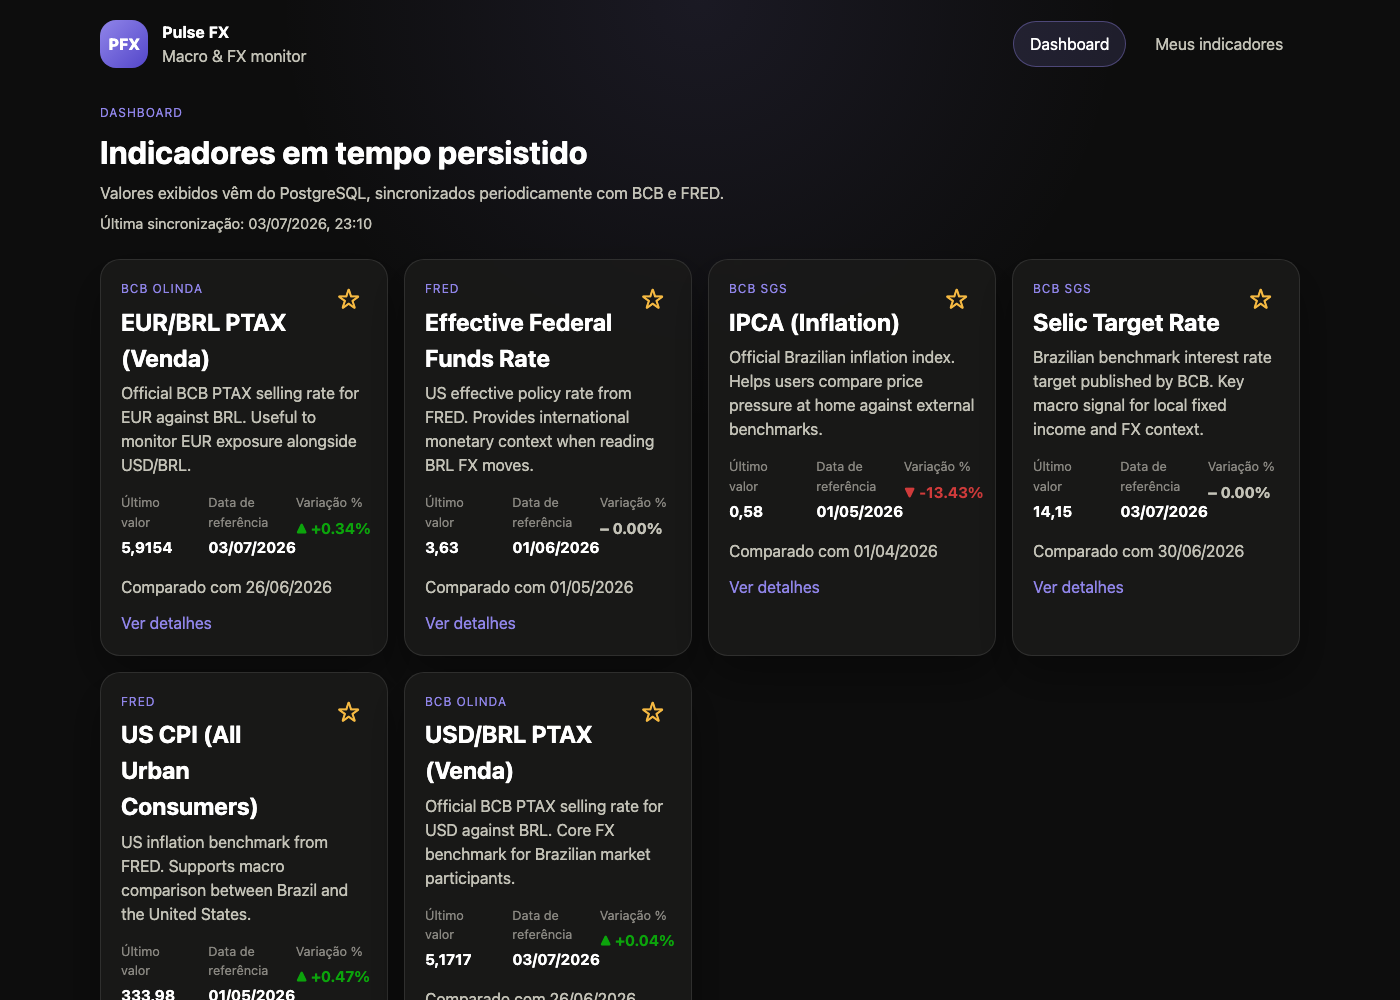
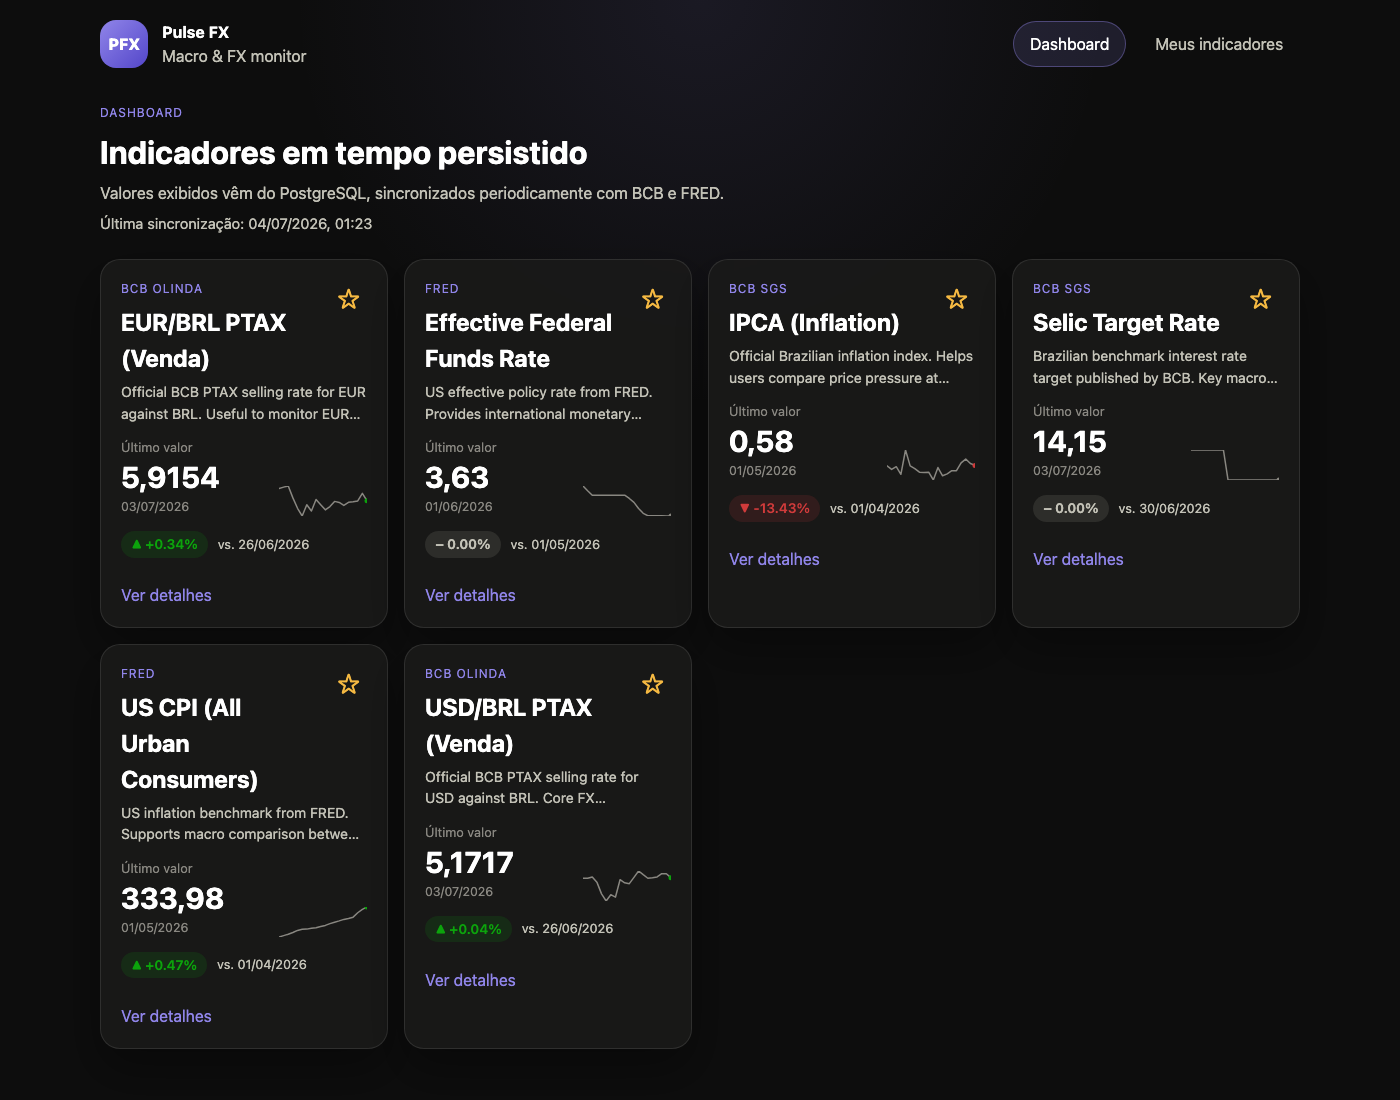
feat: redesign dashboard cards as stat tiles with a trend sparkline
Reference date, latest value and variation previously shared equal
visual weight in a 3-column grid, and the description ate most of the
card's vertical space despite not being a required field. Restructure
around the stat-tile pattern instead: a hero value with the reference
date as a secondary caption, a colored variation chip, and a compact
sparkline (muted trend line, direction-colored endpoint) so gain/loss
and recent movement are readable at a glance.

The sparkline needs a short recent-history sample per indicator, so
IndicatorSummaryDto gains a `sparkline: number[]` field sourced from
the same history array the use case already fetches for the variation
calculation — no extra query.

diff --git a/apps/web/src/styles/global.css b/apps/web/src/styles/global.css
@@ -24,6 +24,9 @@
   /* Financial status (reserved — never reused as brand/series color) */
   --status-good: #0ca30c;
   --status-critical: #d03b3b;
+  --status-good-soft: rgba(12, 163, 12, 0.14);
+  --status-critical-soft: rgba(208, 59, 59, 0.14);
+  --status-neutral-soft: rgba(195, 194, 183, 0.12);
 
   /* Favorite affordance (UI icon, not a data encoding) */
   --star: #f5b942;
@@ -102,10 +105,19 @@ a:focus-visible {
 
 .brand p,
 .page-subtitle,
-.card-description,
 .comparison-note {
   margin: 0;
   color: var(--ink-secondary);
+}
+
+.card-description {
+  margin: 0;
+  color: var(--ink-secondary);
+  font-size: 0.88rem;
+  display: -webkit-box;
+  -webkit-line-clamp: 2;
+  -webkit-box-orient: vertical;
+  overflow: hidden;
 }
 
 .main-nav {
@@ -150,7 +162,6 @@ a:focus-visible {
 
 .cards-grid,
 .favorites-list,
-.metric-grid,
 .detail-summary {
   display: grid;
   gap: 1rem;
@@ -177,11 +188,6 @@ a:focus-visible {
   gap: 1rem;
 }
 
-.metric-grid {
-  grid-template-columns: repeat(3, minmax(0, 1fr));
-  margin: 1rem 0;
-}
-
 .metric-label {
   display: block;
   font-size: 0.8rem;
@@ -200,10 +206,6 @@ a:focus-visible {
   font-size: 2rem;
 }
 
-.metric-grid .metric-value {
-  font-size: 0.95rem;
-}
-
 .variation-positive {
   color: var(--status-good);
 }
@@ -214,6 +216,75 @@ a:focus-visible {
 
 .variation-neutral {
   color: var(--ink-secondary);
+}
+
+.card-hero {
+  display: flex;
+  align-items: flex-end;
+  justify-content: space-between;
+  gap: 1rem;
+  margin: 0.9rem 0;
+}
+
+.hero-value-block {
+  display: flex;
+  flex-direction: column;
+  gap: 0.2rem;
+  min-width: 0;
+}
+
+.hero-value {
+  font-size: 1.85rem;
+  font-weight: 700;
+  line-height: 1.15;
+  color: var(--ink-primary);
+  white-space: nowrap;
+}
+
+.hero-date {
+  font-size: 0.78rem;
+  color: var(--ink-muted);
+}
+
+.sparkline {
+  flex-shrink: 0;
+}
+
+.variation-row {
+  display: flex;
+  align-items: center;
+  gap: 0.6rem;
+  margin-bottom: 0.85rem;
+  flex-wrap: wrap;
+}
+
+.variation-chip {
+  display: inline-flex;
+  align-items: center;
+  padding: 0.2rem 0.65rem;
+  border-radius: 999px;
+  font-size: 0.85rem;
+  font-weight: 600;
+  white-space: nowrap;
+}
+
+.variation-chip.variation-positive {
+  background: var(--status-good-soft);
+  color: var(--status-good);
+}
+
+.variation-chip.variation-negative {
+  background: var(--status-critical-soft);
+  color: var(--status-critical);
+}
+
+.variation-chip.variation-neutral {
+  background: var(--status-neutral-soft);
+  color: var(--ink-secondary);
+}
+
+.variation-row .comparison-note {
+  font-size: 0.8rem;
 }
 
 .favorite-button {
@@ -328,7 +399,8 @@ td {
     align-items: flex-start;
   }
 
-  .metric-grid {
-    grid-template-columns: 1fr;
+  .card-hero {
+    flex-direction: column;
+    align-items: flex-start;
   }
 }

diff --git a/apps/web/src/features/dashboard/Sparkline.tsx b/apps/web/src/features/dashboard/Sparkline.tsx
@@ -1,0 +1,55 @@
+export type TrendDirection = 'up' | 'down' | 'neutral';
+
+interface SparklineProps {
+  values: number[];
+  direction: TrendDirection;
+}
+
+const WIDTH = 88;
+const HEIGHT = 30;
+
+const DOT_COLOR_BY_DIRECTION: Record<TrendDirection, string> = {
+  up: 'var(--status-good)',
+  down: 'var(--status-critical)',
+  neutral: 'var(--ink-muted)',
+};
+
+export function Sparkline({ values, direction }: SparklineProps) {
+  if (values.length < 2) {
+    return null;
+  }
+
+  const min = Math.min(...values);
+  const max = Math.max(...values);
+  const range = max - min || 1;
+  const step = WIDTH / (values.length - 1);
+
+  const coordinates = values.map((value, index) => ({
+    x: index * step,
+    y: HEIGHT - ((value - min) / range) * HEIGHT,
+  }));
+
+  const points = coordinates.map(({ x, y }) => `${x.toFixed(2)},${y.toFixed(2)}`).join(' ');
+  const last = coordinates.at(-1)!;
+
+  return (
+    <svg
+      className="sparkline"
+      width={WIDTH}
+      height={HEIGHT}
+      viewBox={`0 0 ${WIDTH} ${HEIGHT}`}
+      preserveAspectRatio="none"
+      aria-hidden="true"
+    >
+      <polyline
+        points={points}
+        fill="none"
+        stroke="var(--ink-muted)"
+        strokeWidth="1.5"
+        strokeLinecap="round"
+        strokeLinejoin="round"
+      />
+      <circle cx={last.x} cy={last.y} r="2.5" fill={DOT_COLOR_BY_DIRECTION[direction]} />
+    </svg>
+  );
+}

diff --git a/apps/web/src/features/dashboard/IndicatorCard.tsx b/apps/web/src/features/dashboard/IndicatorCard.tsx
@@ -6,11 +6,19 @@ import {
   formatValue,
   variationClassName,
 } from '../../shared/lib/format.js';
+import { Sparkline, type TrendDirection } from './Sparkline.js';
 
 interface IndicatorCardProps {
   indicator: IndicatorSummaryDto;
   onToggleFavorite: (indicatorId: string, isFavorite: boolean) => void;
   isUpdating?: boolean;
+}
+
+function trendDirection(percentChange: number | null): TrendDirection {
+  if (percentChange === null || percentChange === 0) {
+    return 'neutral';
+  }
+  return percentChange > 0 ? 'up' : 'down';
 }
 
 export function IndicatorCard({ indicator, onToggleFavorite, isUpdating }: IndicatorCardProps) {
@@ -35,32 +43,27 @@ export function IndicatorCard({ indicator, onToggleFavorite, isUpdating }: Indic
 
       <p className="card-description">{indicator.description}</p>
 
-      <div className="metric-grid">
-        <div>
+      <div className="card-hero">
+        <div className="hero-value-block">
           <span className="metric-label">Último valor</span>
-          <strong className="metric-value">
+          <strong className="hero-value">
             {formatValue(indicator.latestValue, indicator.periodicity)}
           </strong>
+          <span className="hero-date">{formatDate(indicator.referenceDate)}</span>
         </div>
-        <div>
-          <span className="metric-label">Data de referência</span>
-          <strong className="metric-value">{formatDate(indicator.referenceDate)}</strong>
-        </div>
-        <div>
-          <span className="metric-label">Variação %</span>
-          <strong className={`metric-value ${variationClassName(indicator.percentChange)}`}>
-            {formatPercent(indicator.percentChange)}
-          </strong>
-        </div>
+        <Sparkline values={indicator.sparkline} direction={trendDirection(indicator.percentChange)} />
       </div>
 
-      {indicator.comparisonDate ? (
-        <p className="comparison-note">
-          Comparado com {formatDate(indicator.comparisonDate)}
-        </p>
-      ) : (
-        <p className="comparison-note">Histórico insuficiente para calcular variação.</p>
-      )}
+      <div className="variation-row">
+        <span className={`variation-chip ${variationClassName(indicator.percentChange)}`}>
+          {formatPercent(indicator.percentChange)}
+        </span>
+        {indicator.comparisonDate ? (
+          <span className="comparison-note">vs. {formatDate(indicator.comparisonDate)}</span>
+        ) : (
+          <span className="comparison-note">Histórico insuficiente para calcular variação.</span>
+        )}
+      </div>
 
       <Link to={`/indicators/${indicator.code}`} className="card-link">
         Ver detalhes

diff --git a/apps/web/src/features/dashboard/IndicatorCard.test.tsx b/apps/web/src/features/dashboard/IndicatorCard.test.tsx
@@ -18,6 +18,7 @@ const baseIndicator: IndicatorSummaryDto = {
   comparisonDate: '2026-01-05',
   lastSyncedAt: '2026-01-12T12:00:00.000Z',
   isFavorite: false,
+  sparkline: [5.1, 5.2, 5.35, 5.3, 5.6],
 };
 
 function renderCard(indicator: IndicatorSummaryDto) {
@@ -47,5 +48,15 @@ describe('IndicatorCard', () => {
     });
     expect(screen.getByText('N/A')).toBeInTheDocument();
     expect(screen.getByText('Histórico insuficiente para calcular variação.')).toBeInTheDocument();
+  });
+
+  it('renders a sparkline when enough history is available', () => {
+    const { container } = renderCard(baseIndicator);
+    expect(container.querySelector('svg.sparkline')).toBeInTheDocument();
+  });
+
+  it('omits the sparkline when history has fewer than two points', () => {
+    const { container } = renderCard({ ...baseIndicator, sparkline: [5.6] });
+    expect(container.querySelector('svg.sparkline')).not.toBeInTheDocument();
   });
 });

diff --git a/apps/api/src/application/use-cases/indicator.use-cases.ts b/apps/api/src/application/use-cases/indicator.use-cases.ts
@@ -7,6 +7,8 @@ import type {
   ObservationRepository,
 } from '../ports/repositories.js';
 
+const SPARKLINE_SAMPLE_SIZE = 20;
+
 const DATA_LIMITATIONS: Record<string, string> = {
   USD_BRL_PTAX:
     'PTAX is the official BCB closing reference rate, not a live market quote. Weekend and holiday gaps use the last available business-day observation without interpolation.',
@@ -65,6 +67,7 @@ export class ListIndicatorsUseCase {
           comparisonDate: variation ? formatDateOnly(variation.comparisonDate) : null,
           lastSyncedAt: indicator.lastSyncedAt?.toISOString() ?? null,
           isFavorite: favoriteIds.has(indicator.id),
+          sparkline: history.slice(-SPARKLINE_SAMPLE_SIZE).map((item) => item.value),
         } satisfies IndicatorSummaryDto;
       }),
     );
@@ -114,6 +117,7 @@ export class GetIndicatorDetailUseCase {
       comparisonDate: variation ? formatDateOnly(variation.comparisonDate) : null,
       lastSyncedAt: indicator.lastSyncedAt?.toISOString() ?? null,
       isFavorite,
+      sparkline: history.slice(-SPARKLINE_SAMPLE_SIZE).map((item) => item.value),
       observations: history.map((item) => ({
         referenceDate: formatDateOnly(item.referenceDate),
         value: item.value,

diff --git a/apps/web/src/shared/api/client.ts b/apps/web/src/shared/api/client.ts
@@ -22,6 +22,7 @@ const indicatorSummarySchema = z.object({
   comparisonDate: z.string().nullable(),
   lastSyncedAt: z.string().nullable(),
   isFavorite: z.boolean(),
+  sparkline: z.array(z.number()),
 });
 
 const indicatorDetailSchema = indicatorSummarySchema.extend({

diff --git a/packages/shared/src/types.ts b/packages/shared/src/types.ts
@@ -16,6 +16,7 @@ export interface IndicatorSummaryDto {
   comparisonDate: string | null;
   lastSyncedAt: string | null;
   isFavorite: boolean;
+  sparkline: number[];
 }
 
 export interface ObservationDto {